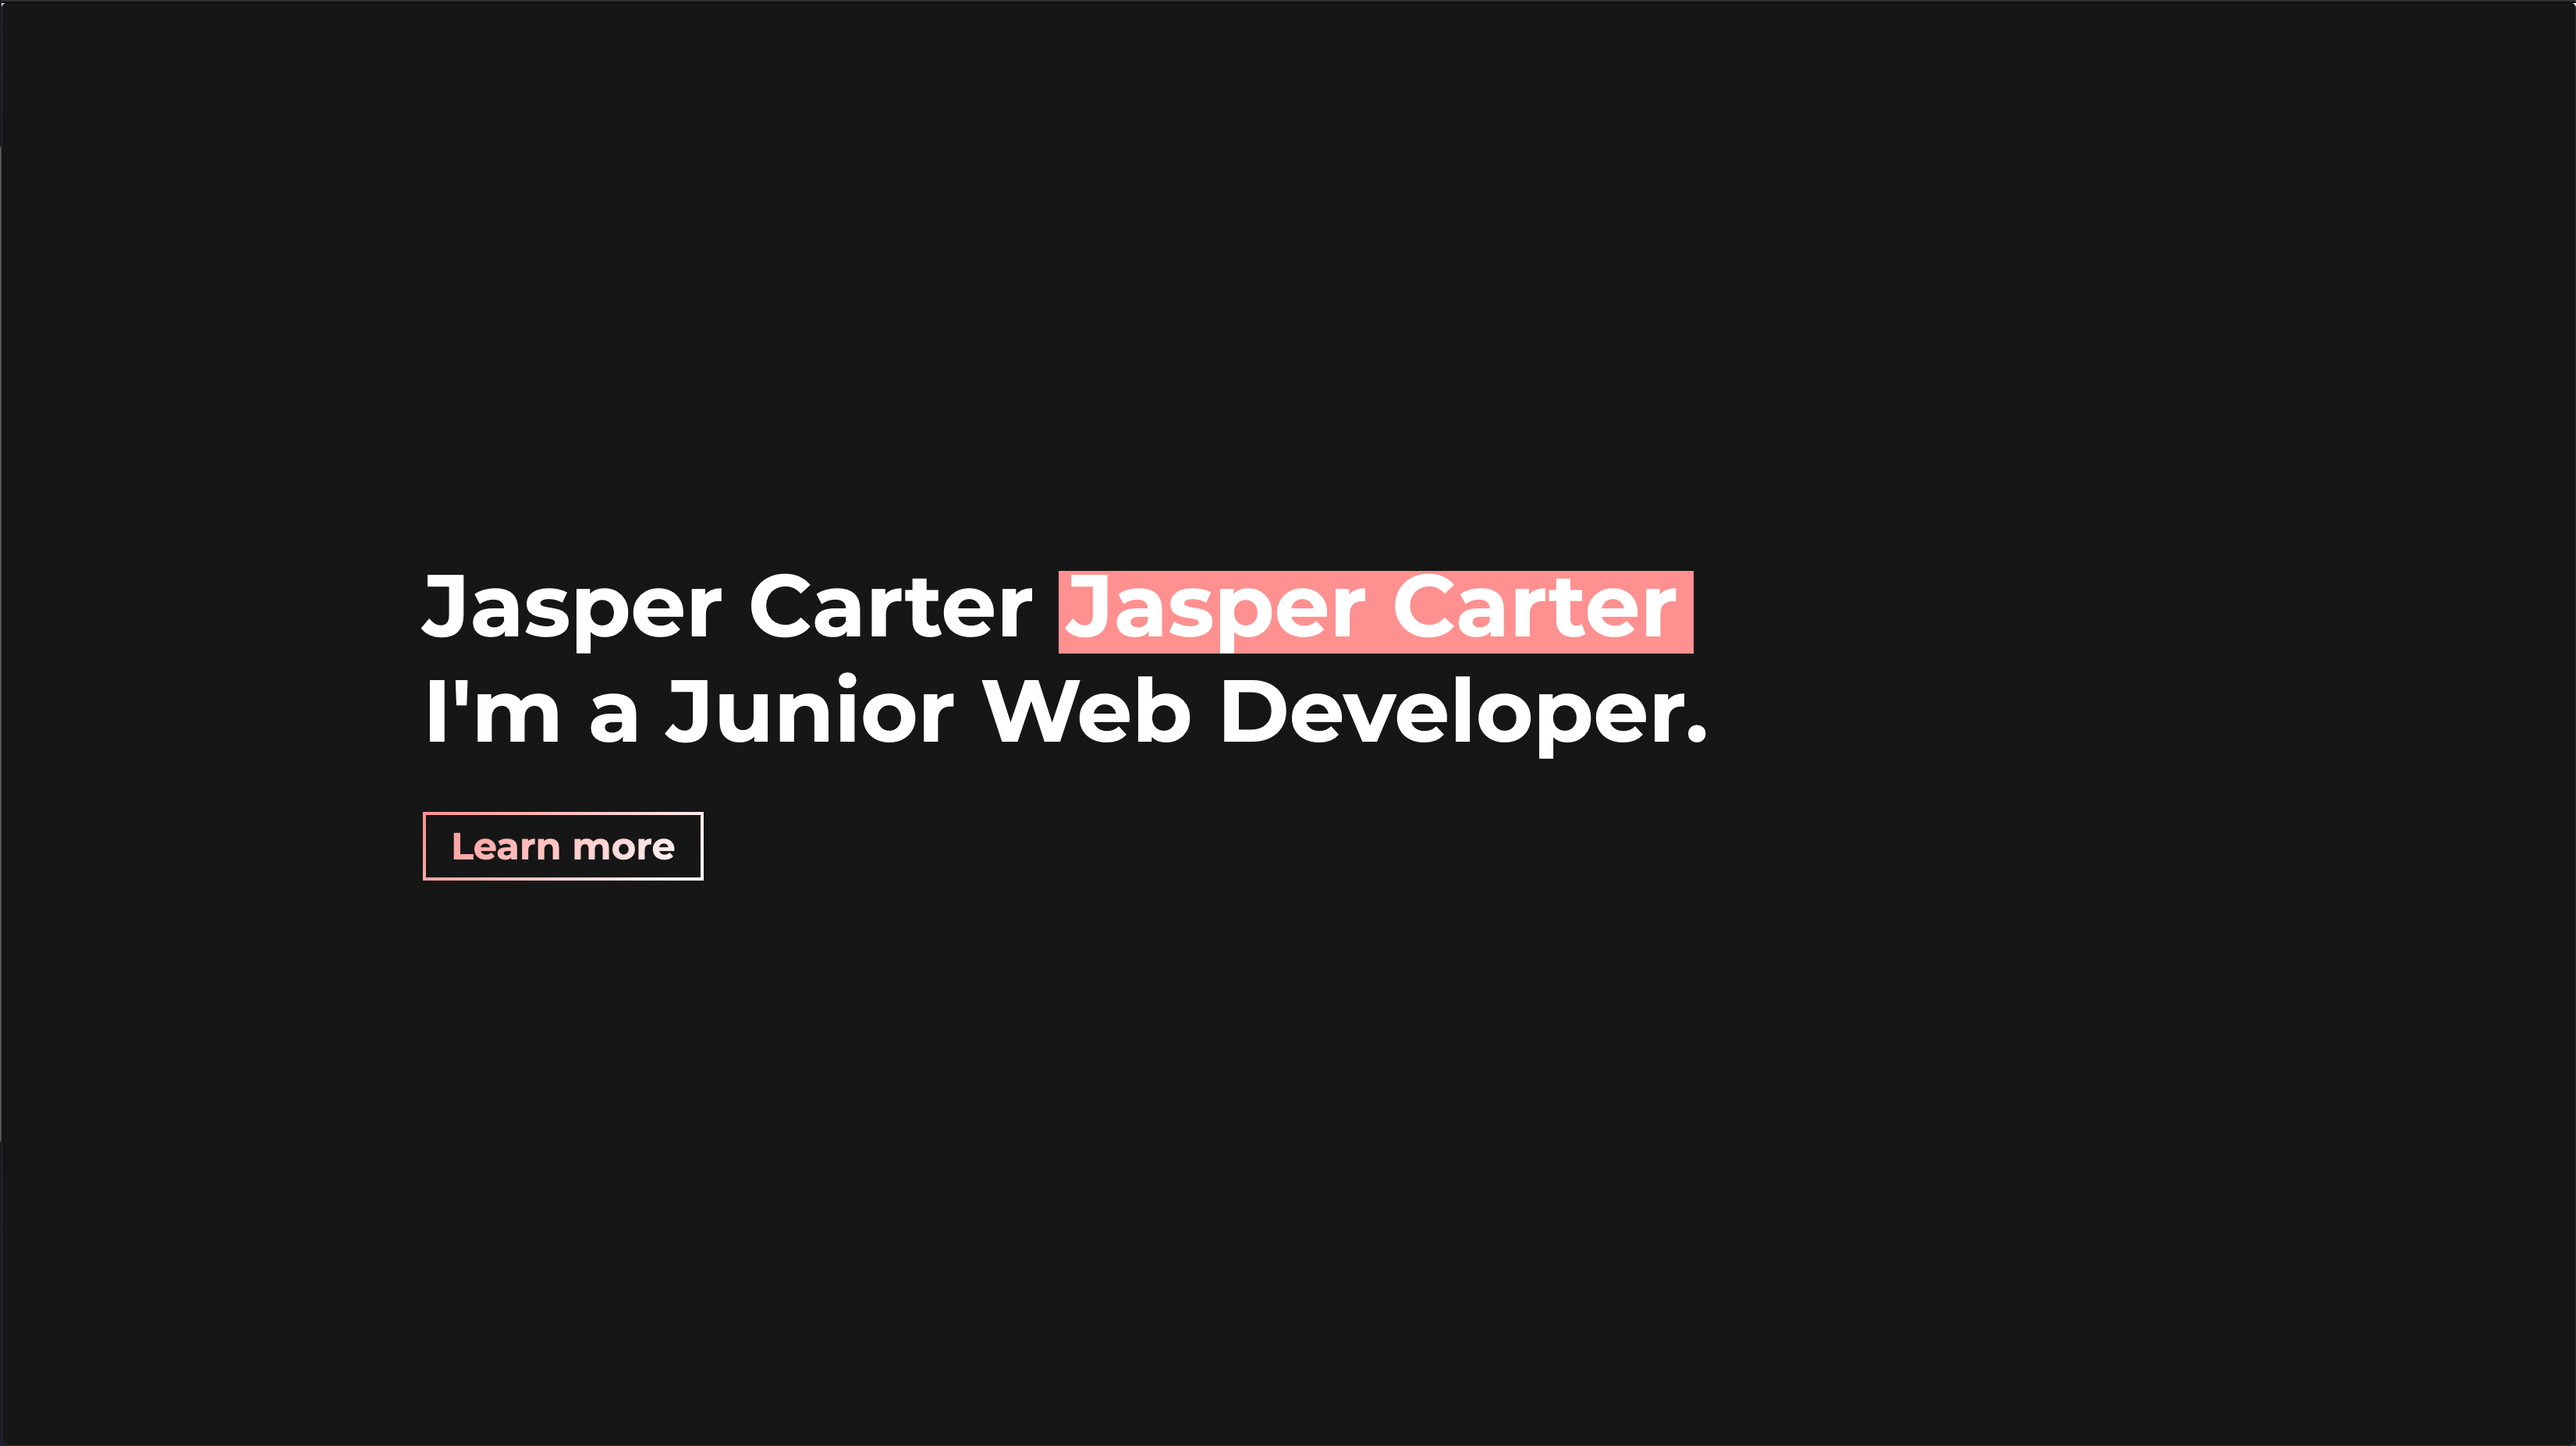
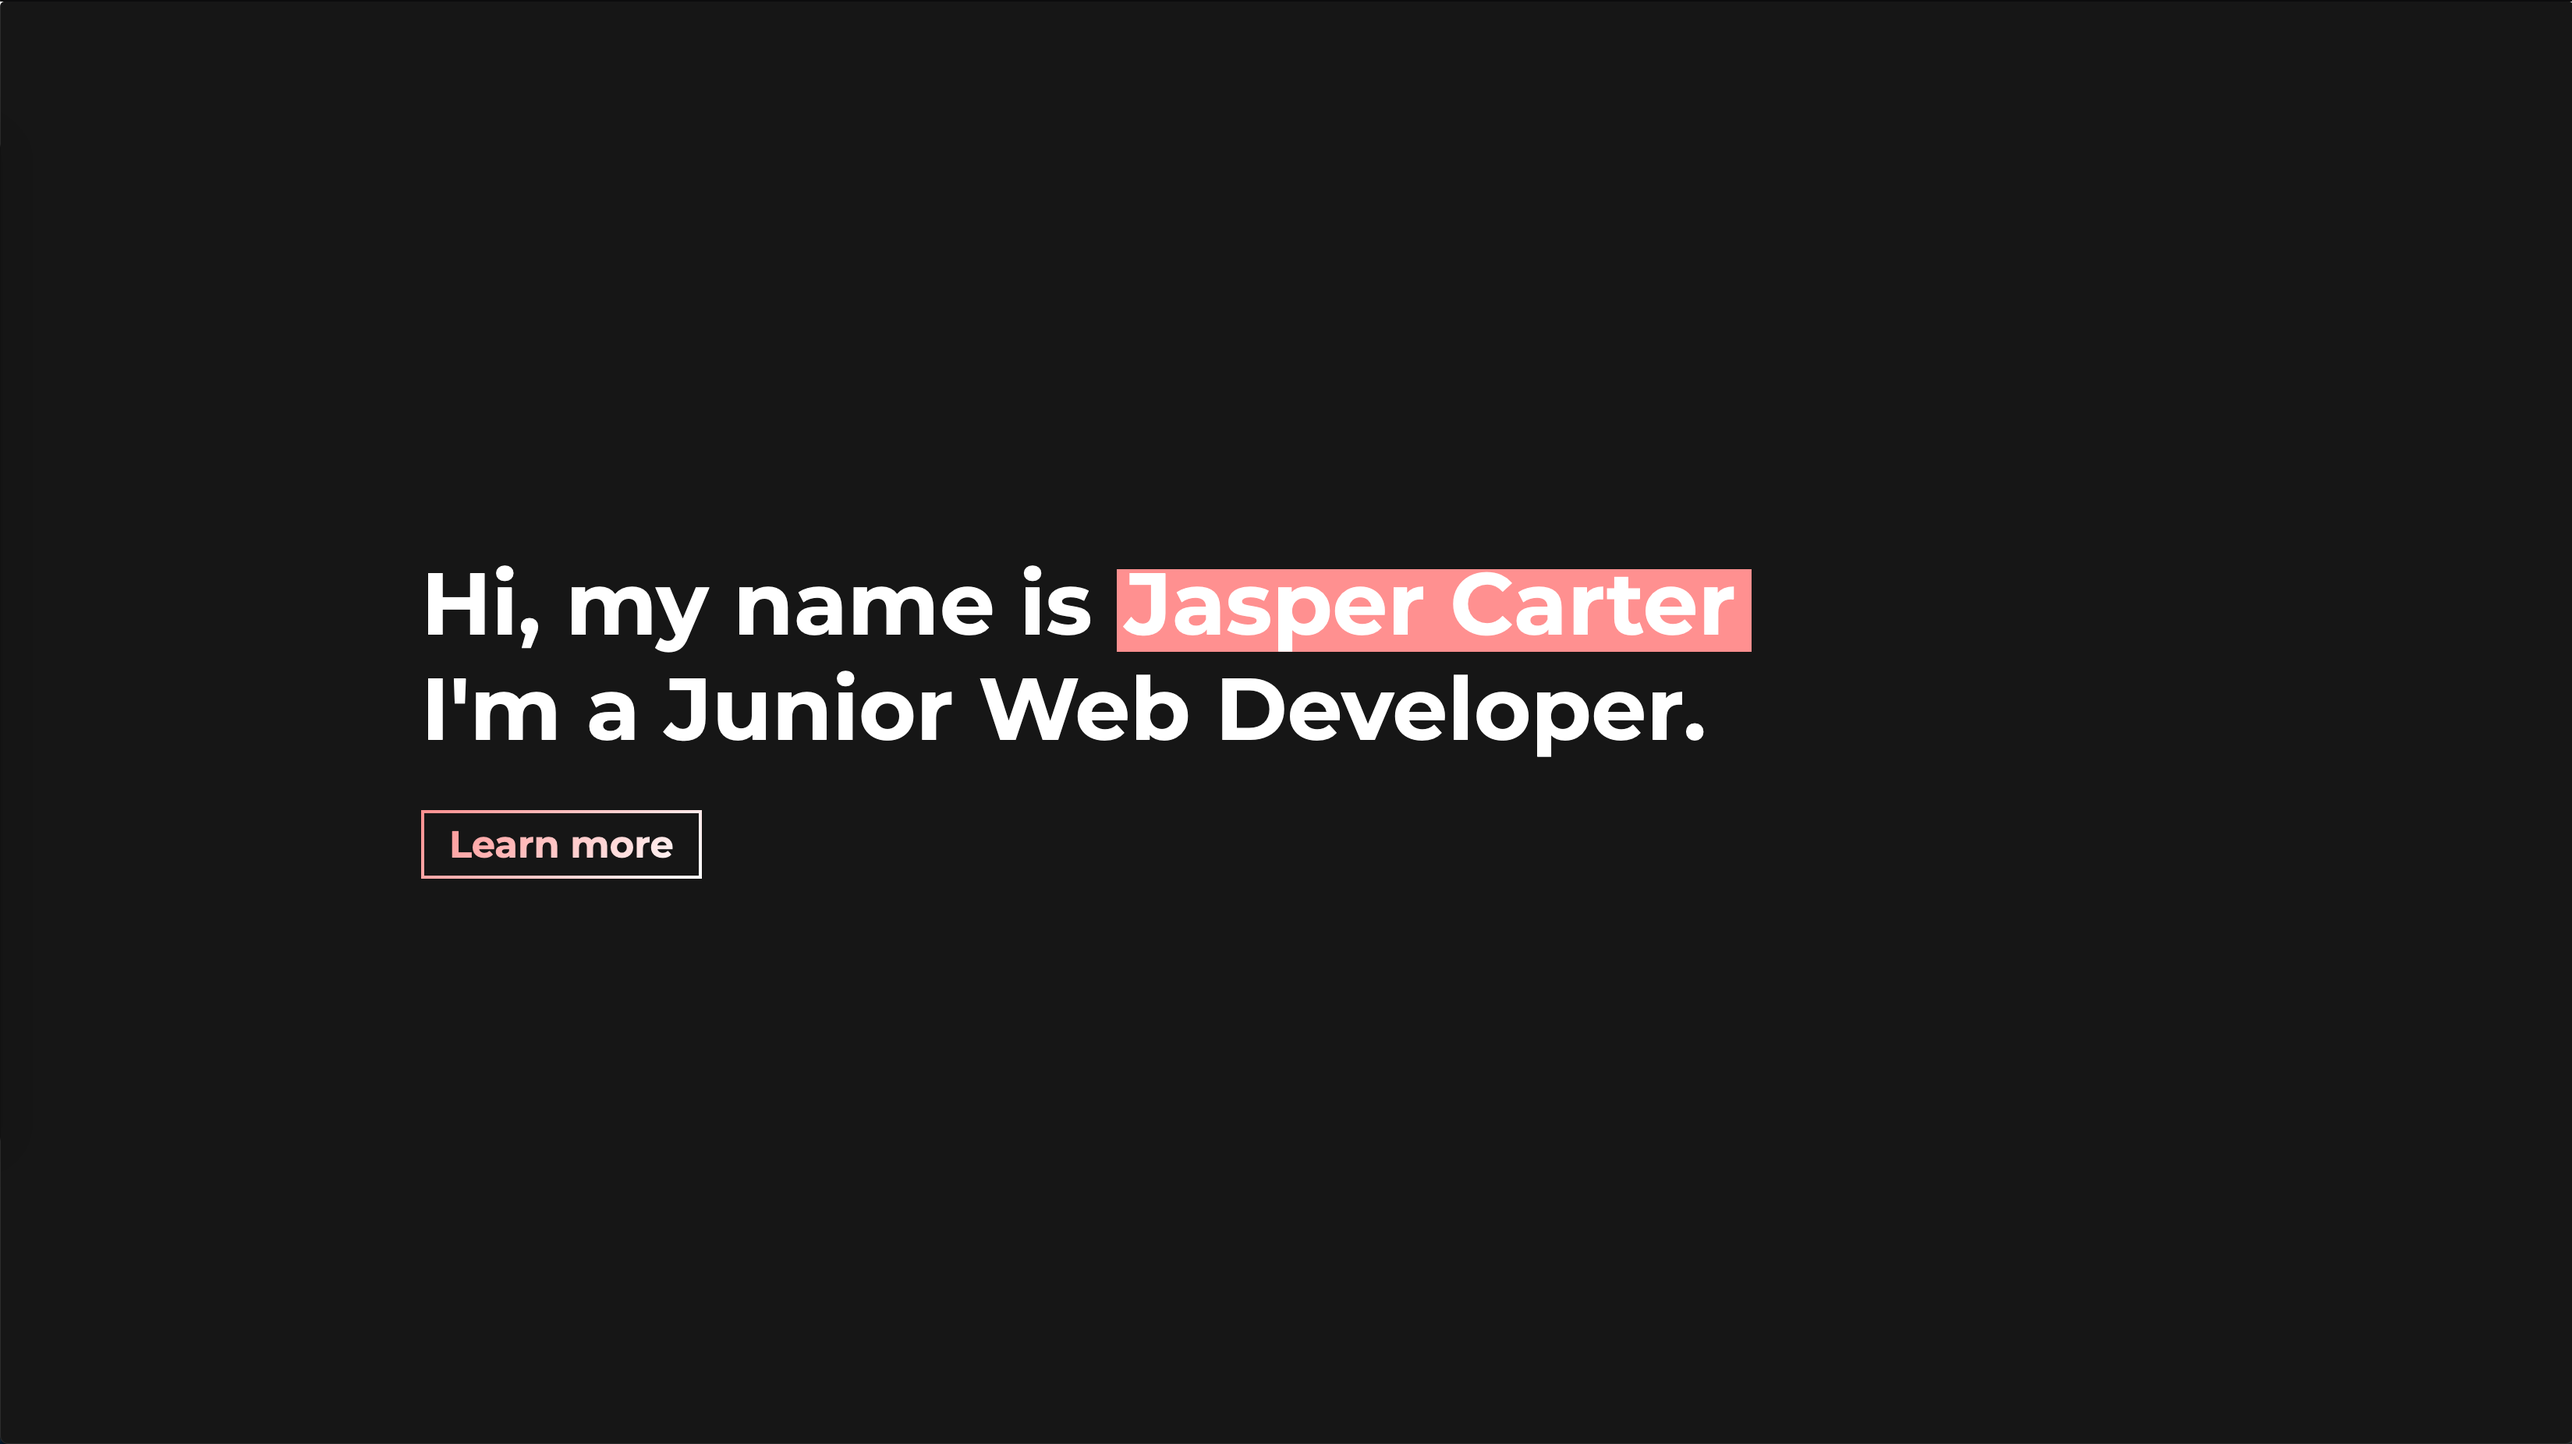
New image

Changed region(s): [[0.1562, 0.3693, 0.6871, 0.4617], [0.1874, 0.5848, 0.2498, 0.6156], [0.9994, 0.0, 1.0, 0.0308]]

diff --git a/src/mock/data.js b/src/mock/data.js
@@ -10,7 +10,7 @@ export const headData = {
 
 // HERO DATA
 export const heroData = {
-  title: 'Jasper Carter',
+  title: '',
   name: '',
   subtitle: '',
   cta: '',
